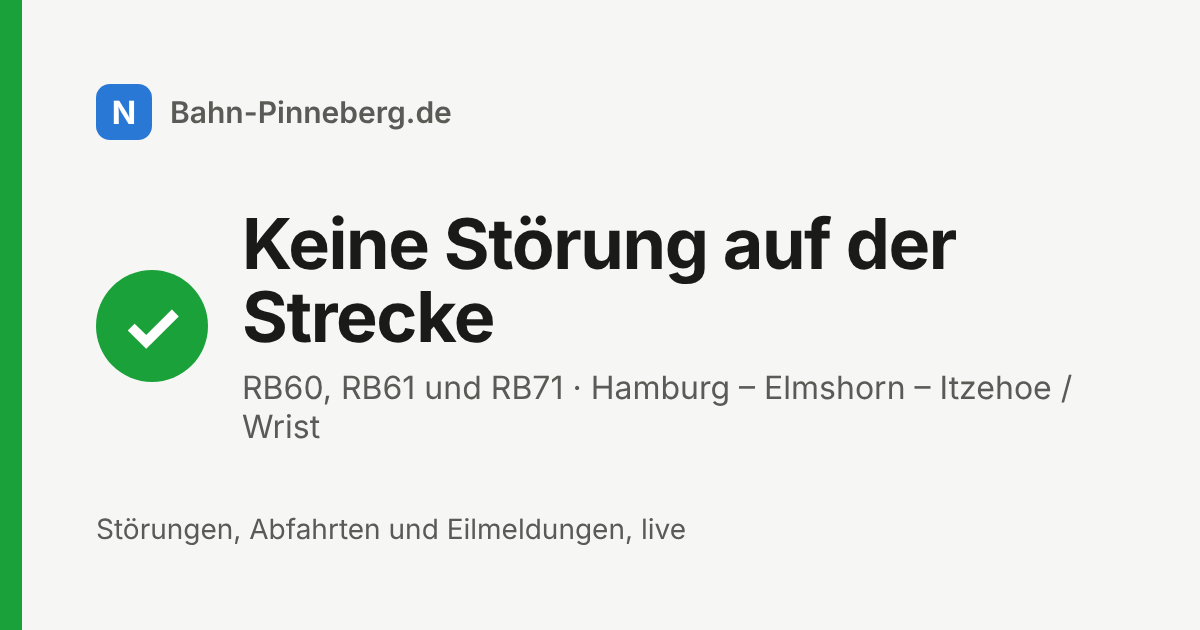
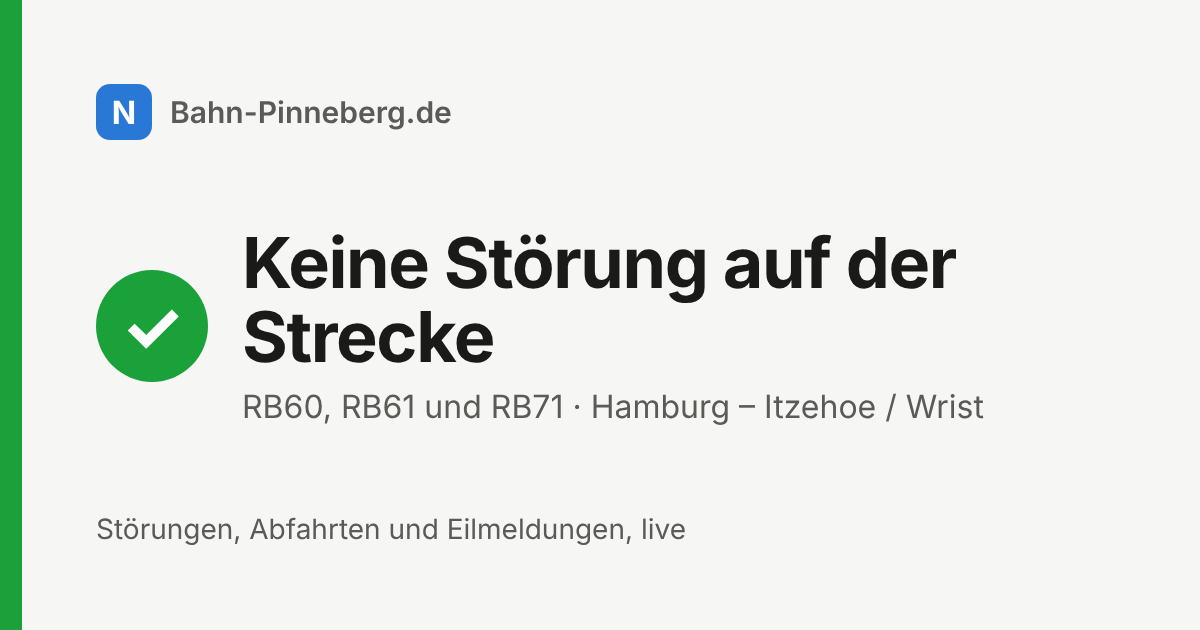
Vorschaubild: Strecke kürzer, damit die Zeile mit RB60 nicht umbricht
Claude-Session: https://claude.ai/code/session_01KhF188QwqAjarw5KrHzToa

Changed region(s): [[0.185, 0.3317, 0.8942, 0.6937]]

diff --git a/dev/og/template.html b/dev/og/template.html
@@ -19,7 +19,7 @@ body { width: 1200px; height: 630px; font-family: Inter, system-ui, sans-serif; 
 <div class="bar"></div>
 <div class="wrap">
   <div class="brand"><div class="n">N</div>Bahn-Pinneberg.de</div>
-  <div class="status"><div class="icon" id="icon">✓</div><div><div class="title" id="title">Keine Störung auf der Strecke</div><div class="sub">RB60, RB61 und RB71 · Hamburg – Elmshorn – Itzehoe / Wrist</div></div></div>
+  <div class="status"><div class="icon" id="icon">✓</div><div><div class="title" id="title">Keine Störung auf der Strecke</div><div class="sub">RB60, RB61 und RB71 · Hamburg – Itzehoe / Wrist</div></div></div>
   <div class="foot"><span>Störungen, Abfahrten und Eilmeldungen, live</span></div>
 </div>
 </body></html>
